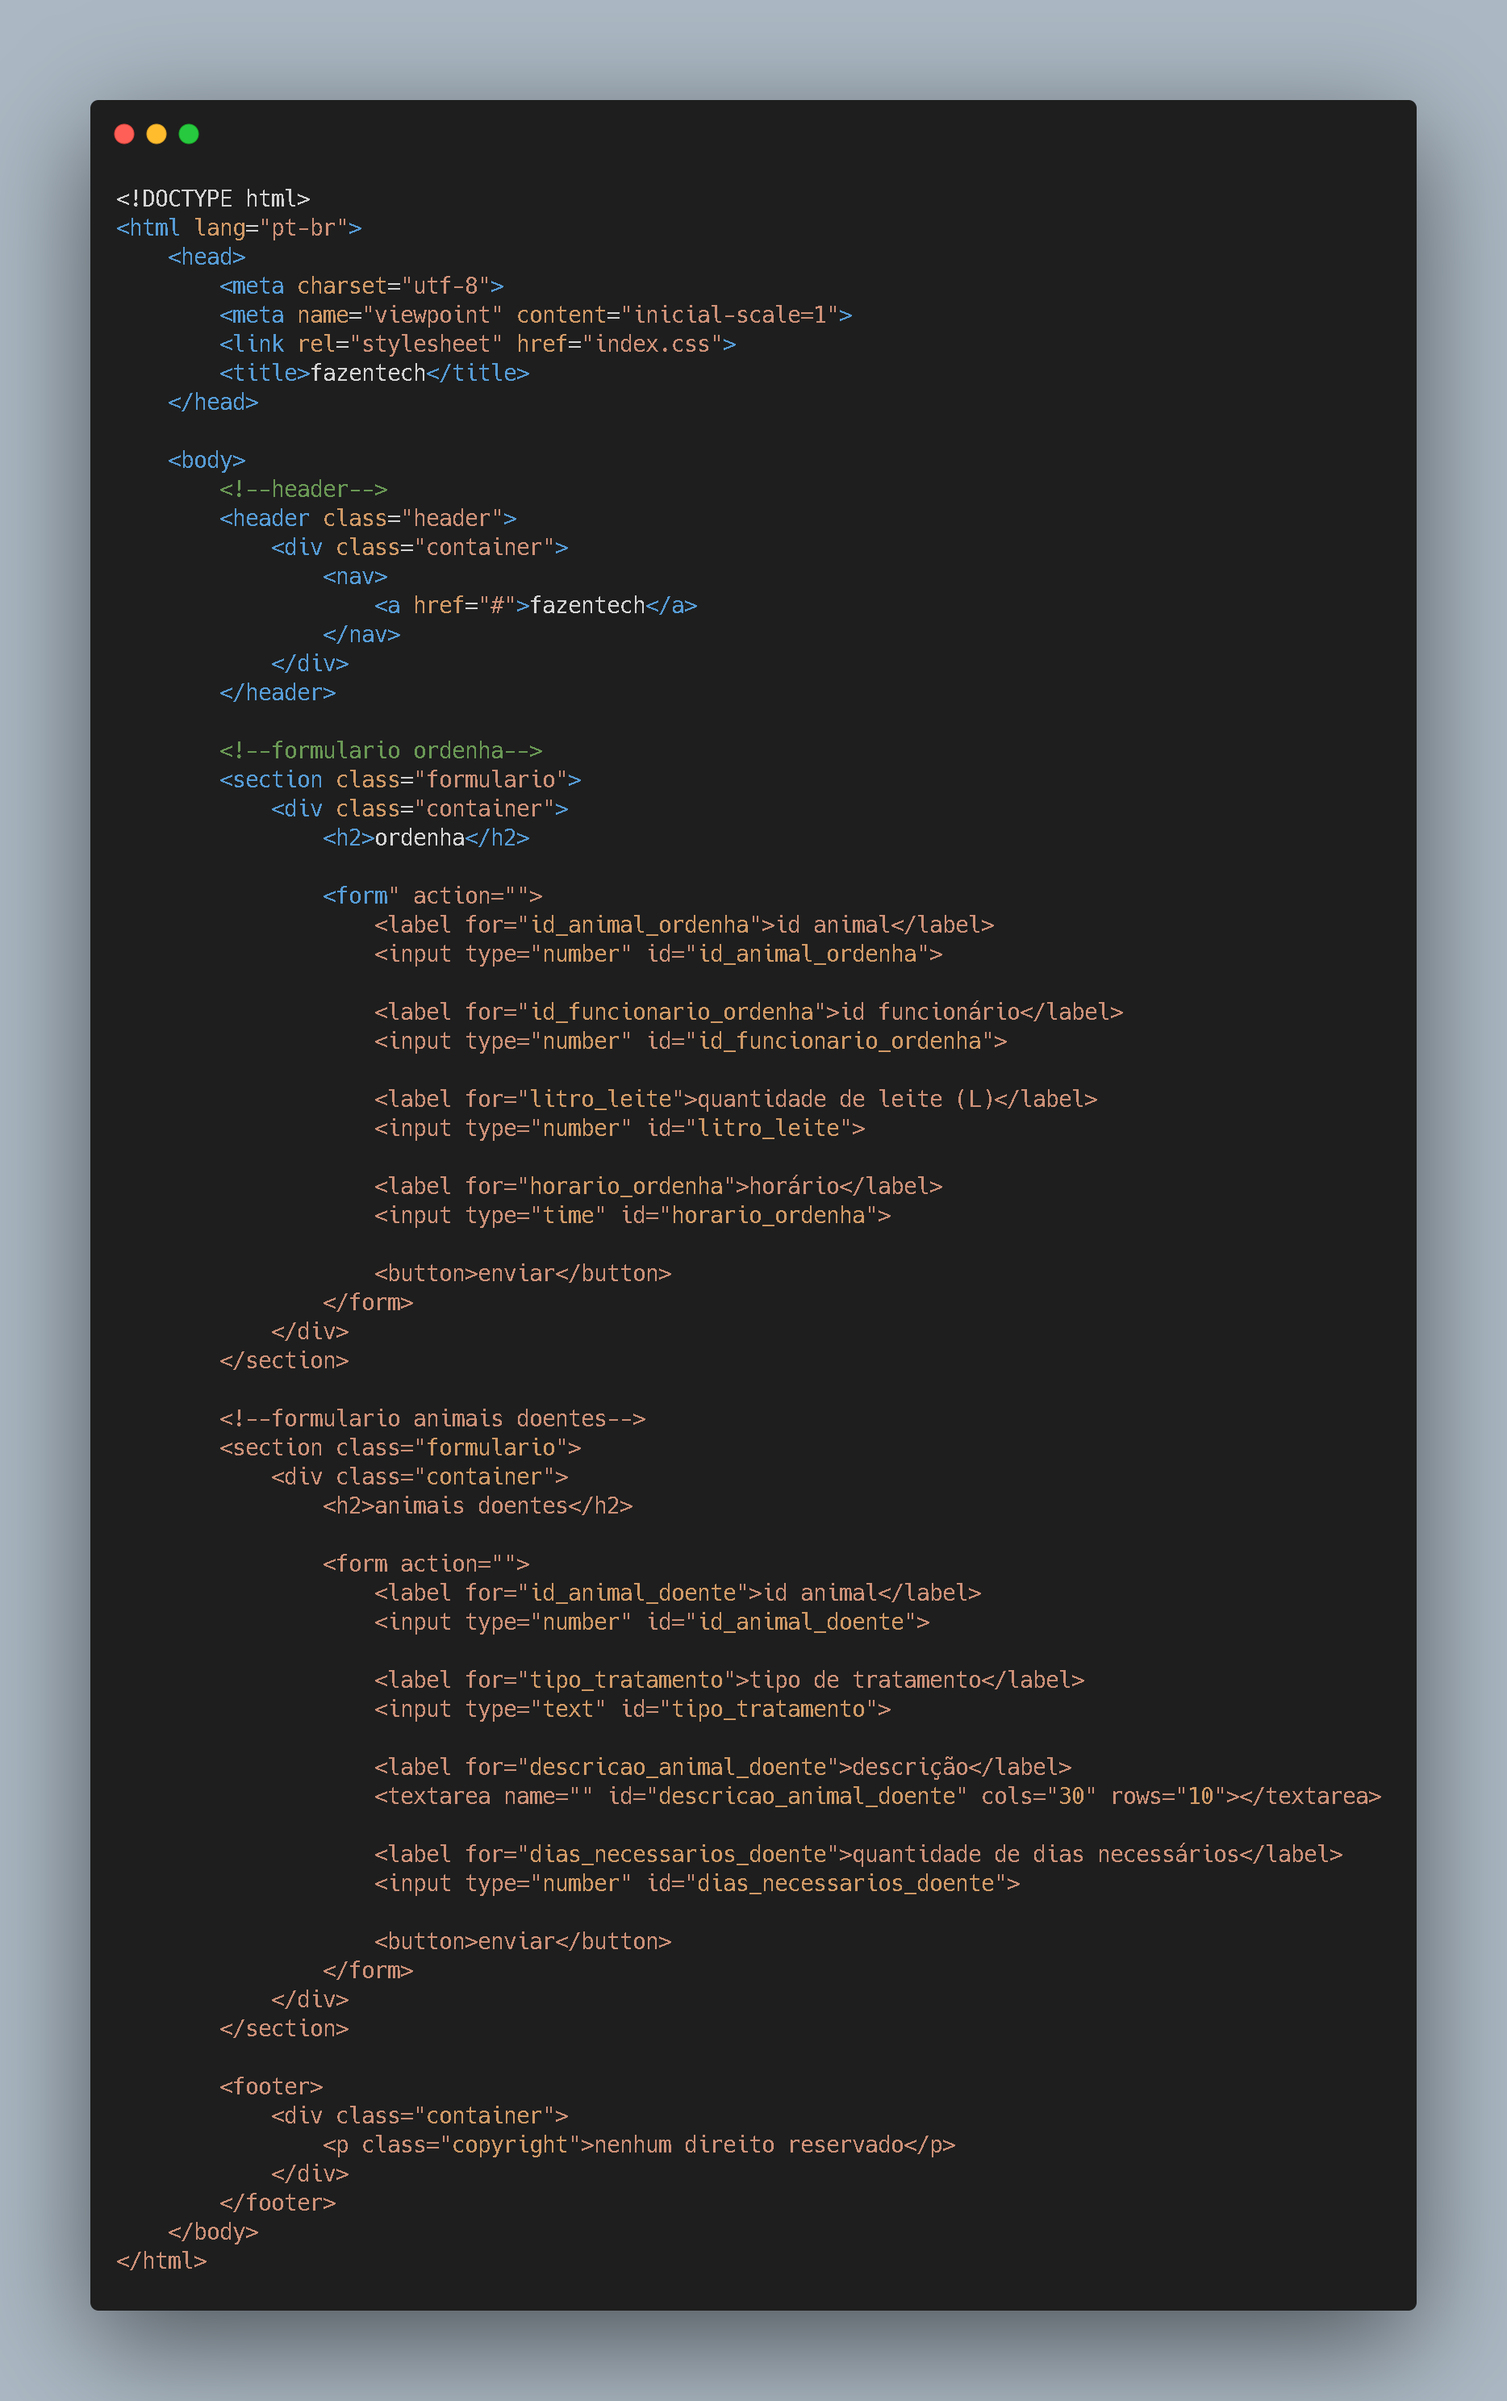
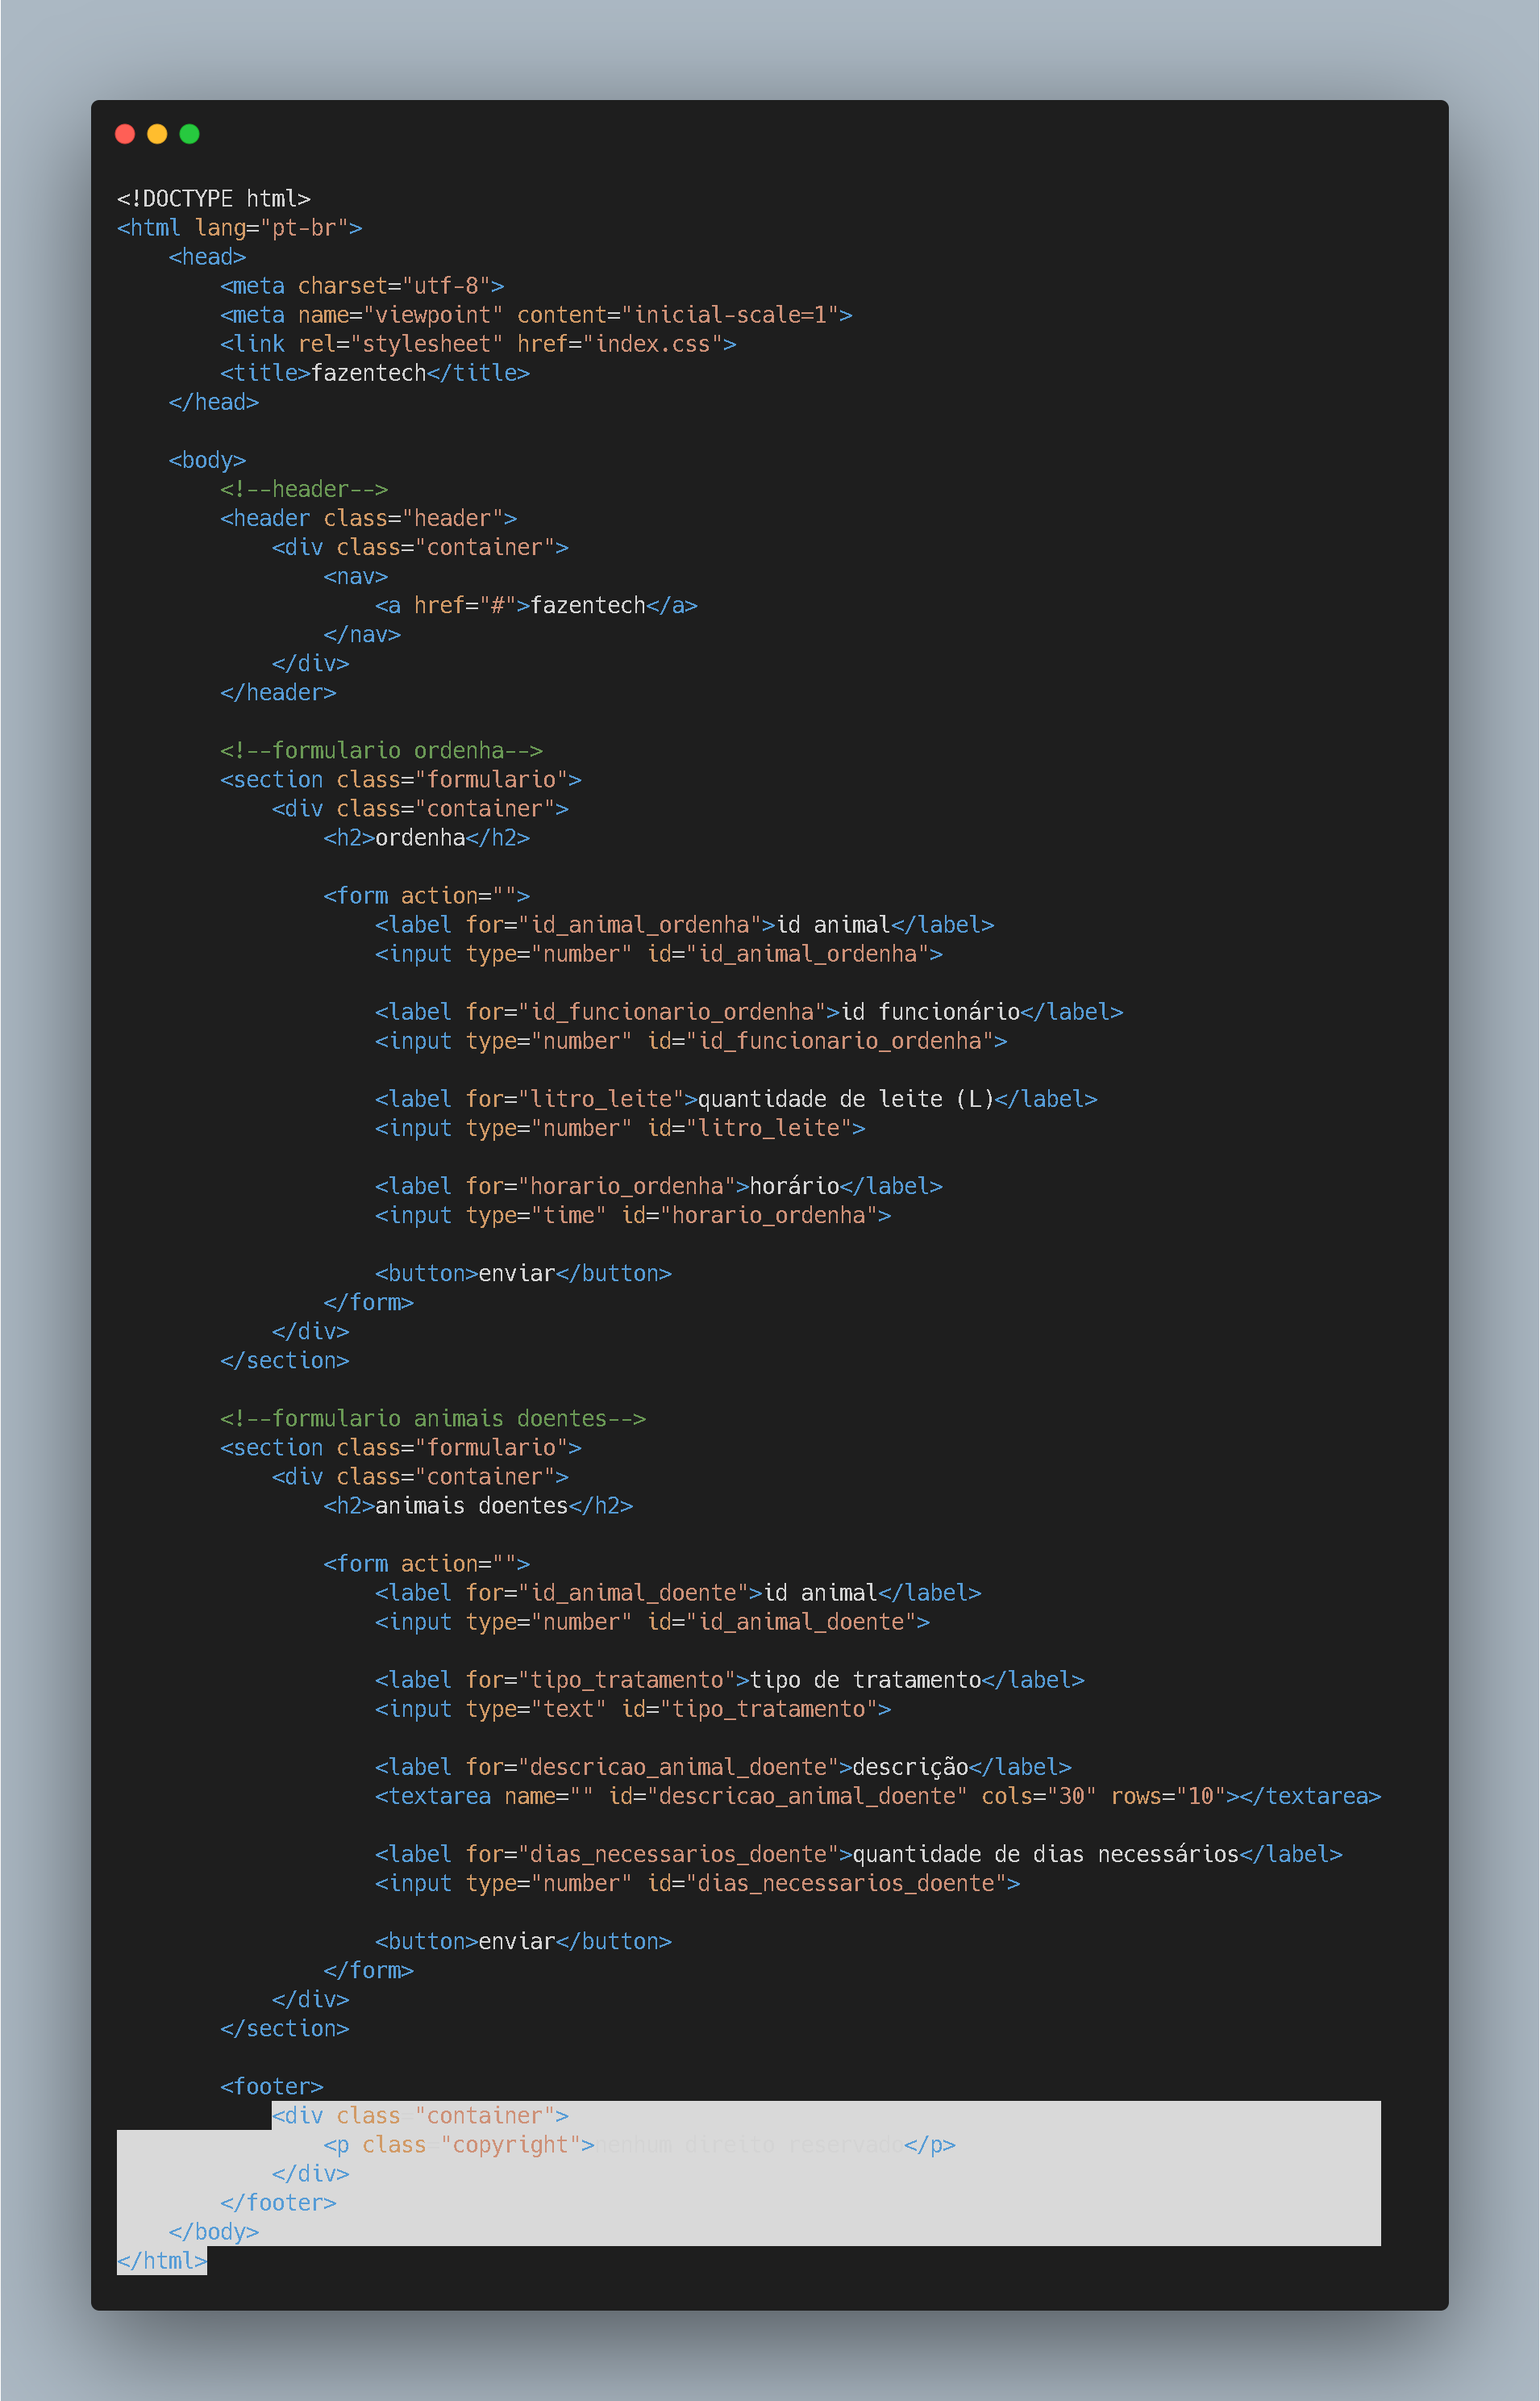
corrigindo html

Changed region(s): [[0.1242, 0.1562, 0.8694, 0.8125], [0.0621, 0.8125, 0.9004, 0.9688], [0.0931, 0.0625, 0.4968, 0.1562]]

diff --git a/projeto/web/index.html b/projeto/web/index.html
@@ -22,7 +22,7 @@
             <div class="container">
                 <h2>ordenha</h2>
 
-                <form" action="">
+                <form action="">
                     <label for="id_animal_ordenha">id animal</label>
                     <input type="number" id="id_animal_ordenha">
 
